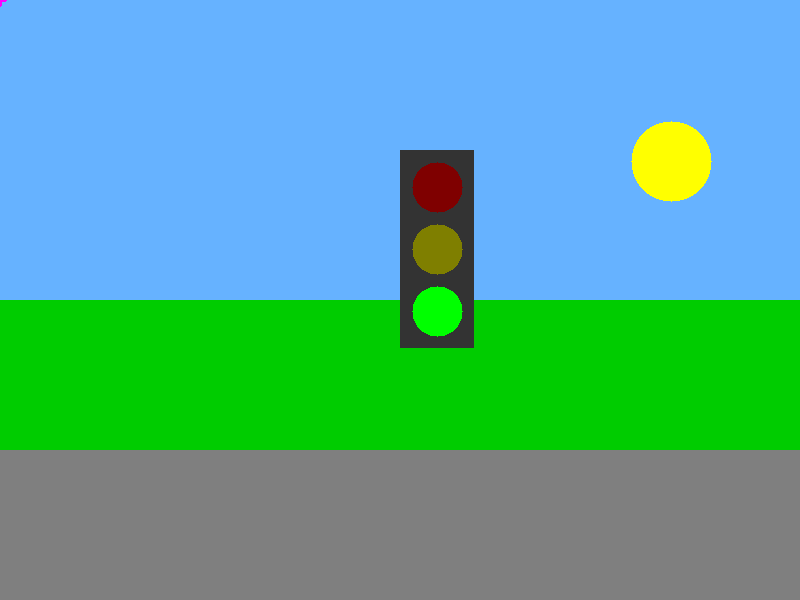
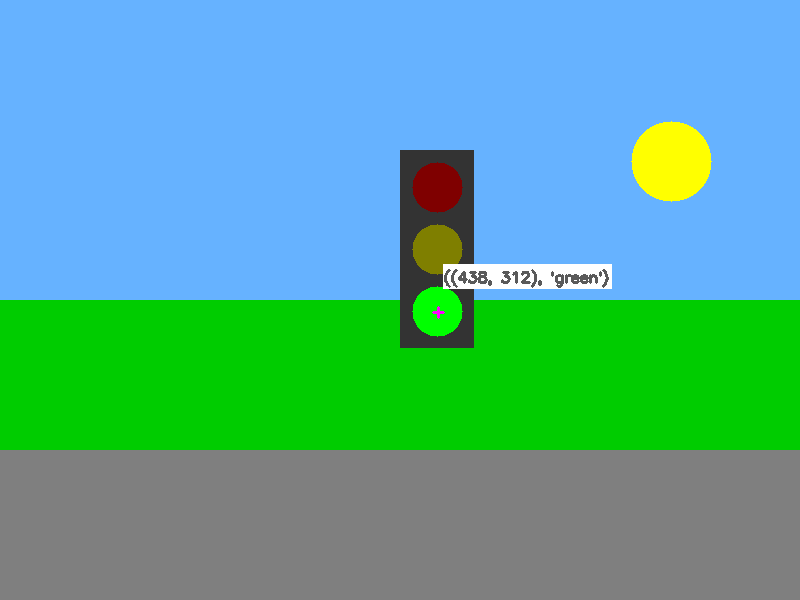
needed to adjust in case its color

Changed region(s): [[0.5312, 0.42, 0.7812, 0.48], [0.5312, 0.51, 0.5625, 0.54]]

diff --git a/cv/PS2/ps2.py b/cv/PS2/ps2.py
@@ -1,6 +1,7 @@
 import cv2
 import numpy as np
 from matplotlib import pyplot as plt
+from scipy.signal import correlate2d
 
 
 def traffic_light_detection(img_in, radii_range):
@@ -36,47 +37,51 @@ def traffic_light_detection(img_in, radii_range):
     # add some blure to reduce noise
     blurred = cv2.GaussianBlur(gray, (7, 7), 0)
     # so now we use the Hough Transform to finde the circles
-    circles = cv2.HoughCircles(blurred, cv2.HOUGH_GRADIENT, 1, 20, param1=50, param2=30, minRadius=radii_range[0], maxRadius=radii_range[1])
+    # I think thats a bug with the index of radii range
+    circles = cv2.HoughCircles(blurred, cv2.HOUGH_GRADIENT, 1, 20, param1=50, param2=30, minRadius=radii_range[0], maxRadius=radii_range[-1])
     
     if circles is None:
         # didnt find any
+        print(f"DEBUG: No circles detected. radii_range: {radii_range[0]}-{radii_range[-1]}")
         return (0, 0), 'nada'
 
     circs = np.uint16(np.around(circles)) 
-    circs_list = []
-    # setting up the list of circles we find
-
-    for circle in circs[0, :]:
-        x, y, r = circle
-        circs_list.append((x, y, r))
-    # Sort circles by y-coordinate (top to bottom)
-    circs_list.sort(key=lambda c: c[1])
+    circs_array = circs[0, :]
+    sort_indices = np.argsort(circs_array[:, 1])
+    circs_sorted = circs_array[sort_indices]
+    circs_list = [(int(x), int(y), int(r)) for x, y, r in circs_sorted]
 
     # we only need 3 circles
     if len(circs_list) < 3:
         if len(circs_list) > 0:
             # find brightest one
-            max_brite = 0
-            state = 'nada'
-            y_cent = 0
+            n_circles = len(circs_list)
+            mean_vals = np.zeros(n_circles)
             # grab 3 vals for the circs
-            for xxx, yyy, rrr in circs_list:
-                mask = np.zeros(gray.shape[:2])
+            for idx, (xxx, yyy, rrr) in enumerate(circs_list):
+                # needs to be int
+                mask = np.zeros(gray.shape[:2], dtype=np.uint8)
                 # apply the mask
                 cv2.circle(mask, (xxx, yyy), rrr, 255, -1)
                 # grab that mean
-                mean_val = cv2.mean(gray, mask=mask)[0]
-
-                if mean_val > max_brite:
-                    # standard shiz here
-                    max_brite = mean_val
-                    y_cent = yyy
+                mean_vals[idx] = cv2.mean(gray, mask=mask)[0]
+            
+            brightest_idx = np.argmax(mean_vals)
+            
+            # Determine state based on position of brightest circle
+            # circs_list is already sorted by y-coordinate (top to bottom)
+            if brightest_idx == 0:
+                state = 'red'  # top
+            elif brightest_idx == n_circles - 1:
+                state = 'green'  # bottom
+            else:
+                state = 'yellow'  # middle
                     
             # use mid y for centter
             # im really not sure this is gonna work, will come back to this
             center_x = circs_list[0][0]
             # i guess we just need middle here for hte x, will be the same for all cuz its a traffic light
-            y_cent = circs_list[len(circs_list)//2][1] if len(circs_list) >= 2 else circs_list[0][1]
+            y_cent = circs_list[n_circles//2][1] if n_circles >= 2 else circs_list[0][1]
             return (int(center_x), int(y_cent)), state
     
     # but if we have at least 3 circles, traffic light detect
@@ -89,27 +94,22 @@ def traffic_light_detection(img_in, radii_range):
         # Center of traffic light is at the yellow circle... probably
         center_x, center_y = yellow_circ[0], yellow_circ[1]
 
-        max_intens = 0
-        state = 'nada'
-
-        for idx, (xxx, yyy, rrr) in enumerate([red_circ, yellow_circ, green_circ]):
+        mean_vals = np.zeros(3)
+        lights = [red_circ, yellow_circ, green_circ]
+        
+        for idx, (xxx, yyy, rrr) in enumerate(lights):
             # go thru each
             # make a circular mask
-            mask = np.zeros(gray.shape[:2])
+            mask = np.zeros(gray.shape[:2], dtype=np.uint8)
             # apply the mask LIKE UP TOP
             cv2.circle(mask, (xxx, yyy), max(1, rrr-2), 255, -1)
             # again grab that mean
-            mean_val = cv2.mean(gray, mask=mask)[0]
-
-            if mean_val > max_intens:
-                max_intens = mean_val
-                if idx == 0:
-                    state = 'red'
-                elif idx == 1:
-                    state = 'yellow'
-                else:
-                    state = 'green'
-            # in theory, max intensity is hte one thats lit
+            mean_vals[idx] = cv2.mean(gray, mask=mask)[0]
+        
+        brightest_idx = np.argmax(mean_vals)
+        # in theory, max intensity is hte one thats lit
+        states = ['red', 'yellow', 'green']
+        state = states[brightest_idx]
 
         return (int(center_x), int(center_y)), state
     return (0, 0), 'nada'
@@ -132,11 +132,11 @@ def construction_sign_detection(img_in):
 
     # apply edge detection
     # lets try the cv2 edge detect
-    # might have to finetune these more
-    edges = cv2.Canny(gray, 30, 125, apertureSize=3)
+    # Lower thresholds to detect more edges (lower = more sensitive)
+    edges = cv2.Canny(gray, 20, 60, apertureSize=3)
     # Hough Line Transform
-    # really not sure on half these inputs but well see
-    lines = cv2.HoughLinesP(edges, 1, np.pi/180, 100, minLineLength=20, maxLineGap=5)
+    # Lower threshold and minLineLength to detect more lines
+    lines = cv2.HoughLinesP(edges, 1, np.pi/180, 30, minLineLength=12, maxLineGap=12)
 
     # didnt find any lines
     if lines is None:
@@ -148,16 +148,18 @@ def construction_sign_detection(img_in):
     lines_45_angle = {'45': [], '-45': []}
     
     # these 45s are crucial, I think this should work but it may get false positives of other signs
-    for line in lines:
-        xx1, yy1, xx2, yy2 = line[0]
-        # i think this should get me the angle
-        angle = np.arctan2(yy2 - yy1, xx2 - xx1)
-        # some range for the 45 line
-        if 30 < angle < 60 or -150 < angle < -120:
-            lines_45_angle['45'].append(line[0])
-        elif -60 < angle < -30 or 120 < angle < 150:
-            lines_45_angle['-45'].append(line[0])
-
+    lines_array = lines[:, 0, :] 
+    x1, y1, x2, y2 = lines_array[:, 0], lines_array[:, 1], lines_array[:, 2], lines_array[:, 3]
+    # i think this should get me the angle
+    # need to convert to degrees
+    angles_found = np.arctan2(y2 - y1, x2 - x1) * 180 / np.pi
+    # some range for the 45 line
+    mask_45_pos = ((angles_found > 30) & (angles_found < 60)) | ((angles_found > -150) & (angles_found < -120))
+    mask_45_neg = ((angles_found > -60) & (angles_found < -30)) | ((angles_found > 120) & (angles_found < 150))
+    
+    lines_45_angle['45'] = lines_array[mask_45_pos].tolist()
+    lines_45_angle['-45'] = lines_array[mask_45_neg].tolist()
+    
     # If we have both 45 lines, this is prob construction right?
     if len(lines_45_angle['45']) > 0 and len(lines_45_angle['-45']) > 0:
         # Calculat center
@@ -165,7 +167,8 @@ def construction_sign_detection(img_in):
         # filter points
         angle_points = []
         for line in lines_45_angle['45'] + lines_45_angle['-45']:
-            xx1, yy1, xx2, yy2 = line[0]
+            # this was a bug index
+            xx1, yy1, xx2, yy2 = line
             angle_points.extend([(xx1, yy1), (xx2, yy2)])
             # grab all the points
         
@@ -175,8 +178,8 @@ def construction_sign_detection(img_in):
             centroid_x = int(np.mean(angle_points[:, 0]))
             centroid_y = int(np.mean(angle_points[:, 1]))
             return (int(centroid_x), int(centroid_y))
-        # otherwise just return 0
-        return (0, 0)
+    
+    return (0, 0)
 
 
 def template_match(img_orig, img_template, method):
@@ -197,6 +200,7 @@ def template_match(img_orig, img_template, method):
     """
     # set up the result matrix
     # set up the result matrix
+    # Had to rewrite this whole bad boy as it was slow as crap
     first_entry = img_orig.shape[0] - img_template.shape[0] + 1
     second_entry = img_orig.shape[1] - img_template.shape[1] + 1
     result = np.zeros((first_entry, second_entry), float)
@@ -207,18 +211,25 @@ def template_match(img_orig, img_template, method):
    # set up the template and result
     h_templ, w_templ = img_template.shape[:2]
     h_res, w_res = result.shape
+    
+    # convert to grayscale if needed
+    if len(img_orig.shape) == 3:
+        img_orig = cv2.cvtColor(img_orig, cv2.COLOR_BGR2GRAY)
+    if len(img_template.shape) == 3:
+        img_template = cv2.cvtColor(img_template, cv2.COLOR_BGR2GRAY)
+    
+    img_orig_float = img_orig.astype(float)
+    img_template_float = img_template.astype(float)
 
     # Sum of squared differences
     if method == "tm_ssd":
         """Your code goes here"""
         # damn right it does
-        for i in range(h_res):
-            for j in range(w_res):
-                # get the wind
-                window = img_orig[i:i+h_templ, j:j+w_templ]
-                # get the diff
-                diff = window.astype(float) - img_template.astype(float)
-                result[i, j] = np.sum(diff ** 2)
+        cross_corr = correlate2d(img_orig_float, img_template_float, mode='valid')
+        ones = np.ones((h_templ, w_templ))
+        window_sum_sq = correlate2d(img_orig_float ** 2, ones, mode='valid')
+        template_sum_sq = np.sum(img_template_float ** 2)
+        result = window_sum_sq - 2 * cross_corr + template_sum_sq
         # For SSD, min is best
         # grab the top left corner of it
         min_idx = np.argmin(result) 
@@ -229,20 +240,16 @@ def template_match(img_orig, img_template, method):
     elif method == "tm_nssd":
         """Your code goes here"""
         # again darn right
-        for i in range(h_res):
-            for j in range(w_res):
-                window = img_orig[i:i+h_templ, j:j+w_templ]
-                template = img_template.astype(float)
-                # same window as above, well prob use this more below
-                # easier to break this up
-                numer = np.sum((window - template) ** 2)
-                denom = np.sqrt(np.sum(window ** 2) * np.sum(template ** 2))
-                # quick error check
-                if denom == 0:
-                    result[i, j] = np.inf
-                else:
-                    result[i, j] = numer / denom
-
+        cross_corr = correlate2d(img_orig_float, img_template_float, mode='valid')
+        ones = np.ones((h_templ, w_templ))
+        window_sum_sq = correlate2d(img_orig_float ** 2, ones, mode='valid')
+        # same window as above, well prob use this more below
+        # easier to break this up
+        template_sum_sq = np.sum(img_template_float ** 2)
+        numer = window_sum_sq - 2 * cross_corr + template_sum_sq
+        denom = np.sqrt(window_sum_sq * template_sum_sq)
+        # quick error check
+        result = np.where(denom == 0, np.inf, numer / denom)
         # For NSSD, min is best
         # same as above to grab the index
         min_idx = np.argmin(result)
@@ -254,25 +261,28 @@ def template_match(img_orig, img_template, method):
         """Your code goes here"""
         # yup
         # grab these for later
-        mean_template = np.mean(img_template)
-        std_template = np.std(img_template)
-
-        for i in range(h_res):
-            for j in range(w_res):
-                window = img_orig[i:i+h_templ, j:j+w_templ]
-                template = img_template.astype(float)
-                # same as above, CnP
-                mean_window = np.mean(window)
-                std_window = np.std(window)
-                # quick 0 check
-                if std_window == 0 or std_template == 0:
-                    result[i, j] = 0
-                else:
-                    # save result
-                    norm_window = (window - mean_window) / std_window
-                    norm_template = (template - mean_template) / std_template
-                    result[i, j] = np.mean(norm_window * norm_template)
-
+        mean_template = np.mean(img_template_float)
+        template_centered = img_template_float - mean_template
+        std_template = np.std(img_template_float)
+        # quick 0 check
+        if std_template == 0:
+            result[:, :] = 0
+            top_left = (0, 0)
+        else:
+            ones = np.ones((h_templ, w_templ))
+            window_sums = correlate2d(img_orig_float, ones, mode='valid')
+            window_sq_sums = correlate2d(img_orig_float ** 2, ones, mode='valid')
+            cross_corr = correlate2d(img_orig_float, template_centered, mode='valid')
+            # same as above, CnP
+            n_pixels = h_templ * w_templ
+            mean_window = window_sums / n_pixels
+            window_vars = (window_sq_sums / n_pixels) - (mean_window ** 2)
+            std_window = np.sqrt(np.maximum(window_vars, 0))
+            denom = std_window * std_template * n_pixels
+            # save result
+            mask = denom != 0
+            result[mask] = (cross_corr[mask] - mean_window[mask] * np.sum(template_centered)) / denom[mask]
+            result[~mask] = 0
         # again third time here
         max_idx = np.argmax(result)
         top_left = np.unravel_index(max_idx, result.shape)
@@ -353,10 +363,18 @@ def dft2(img):
         y (np.array): 2-dimensional numpy array of shape (n,m) representing Fourier-Transformed image
 
     """
-    # take each row and dft it
-    rowdfter = np.array([dft(row) for row in img])
-    # now take each column and dft it
-    coldfter = np.array([dft(rowdfter[:, i]) for i in range(rowdfter.shape[1])]).T
+    # Optimized: apply DFT to all rows at once, then all columns
+    # DFT on rows
+    n_rows, n_cols = img.shape
+    rowdfter = np.zeros((n_rows, n_cols), dtype=np.complex128)
+    for i in range(n_rows):
+        rowdfter[i, :] = dft(img[i, :])
+    
+    # DFT on columns
+    coldfter = np.zeros((n_rows, n_cols), dtype=np.complex128)
+    for j in range(n_cols):
+        coldfter[:, j] = dft(rowdfter[:, j])
+    
     return coldfter
 
 
@@ -368,12 +386,18 @@ def idft2(img):
         y (np.array): 2-dimensional numpy array of shape (n,m) representing image
 
     """
-    # gonna be like same as before except inverse now
-    # take each row and idft it
-    # no need to fix exponent ere
-    rowidfter = np.array([idft(row) for row in img])
-    # now take each column and idft it
-    colidfter = np.array([idft(rowidfter[:, i]) for i in range(rowidfter.shape[1])]).T
+    # Optimized: apply IDFT to all rows at once, then all columns
+    # IDFT on rows
+    nrows, ncols = img.shape
+    rowidfter = np.zeros((nrows, ncols), dtype=np.complex128)
+    for i in range(nrows):
+        rowidfter[i, :] = idft(img[i, :])
+    
+    # IDFT on columns
+    colidfter = np.zeros((nrows, ncols), dtype=np.complex128)
+    for j in range(ncols):
+        colidfter[:, j] = idft(rowidfter[:, j])
+    
     return colidfter
 
 
@@ -432,9 +456,10 @@ def low_pass_filter(img_bgr, r):
 
     orig_rows, orig_cols = img_bgr.shape[:2]
     center_row, center_col = orig_rows // 2, orig_cols // 2
-    # make mask
-    mask = np.zeros((orig_rows, orig_cols), dtype=np.complex128)
-    mask[center_row-r:center_row+r, center_col-r:center_col+r] = 1
+    
+    # Create proper circular mask (vectorized)
+    y, x = np.ogrid[:orig_rows, :orig_cols]
+    mask = ((x - center_col)**2 + (y - center_row)**2 <= r**2).astype(np.complex128)
 
     # process each channel sep
     for channel in range(3):

diff --git a/cv/PS2/experiment.py b/cv/PS2/experiment.py
@@ -58,6 +58,7 @@ def draw_tl_center(image_in, center, state):
     """
     center = (int(center[0]), int(center[1]))
     output = image_in
+    print(center)
     cv2.drawMarker(output,
                    center,
                    marker_color,
@@ -138,6 +139,7 @@ def part_1b():
         sign_img = cv2.imread("input_images/{}.png".format(img_in))
         coords = fn(sign_img)
 
+        print(coords)
         temp_dict = {name: coords}
         img_out = mark_traffic_signs(sign_img, temp_dict)
         cv2.imwrite(os.path.join(OUTPUT_DIR,"{}.png".format(label)), img_out)
@@ -204,8 +206,8 @@ if __name__ == "__main__":
     # Create Ouput directory
     if not os.path.exists("output_images"):
         os.makedirs("output_images")
-    part_1a()
-    part_1b()
+    # part_1a()
+    # part_1b()
     template_match_test()
-    compression_runner()
-    low_pass_filter_runner()
+    # compression_runner()
+    # low_pass_filter_runner()
